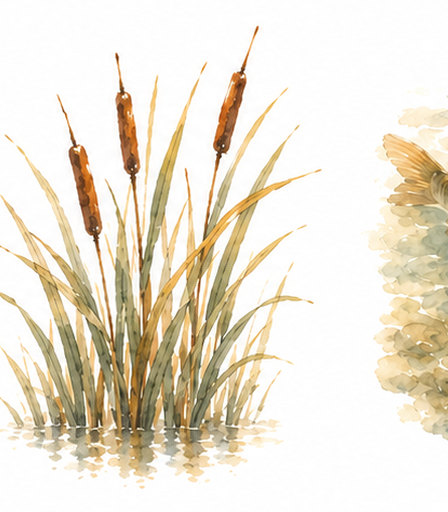
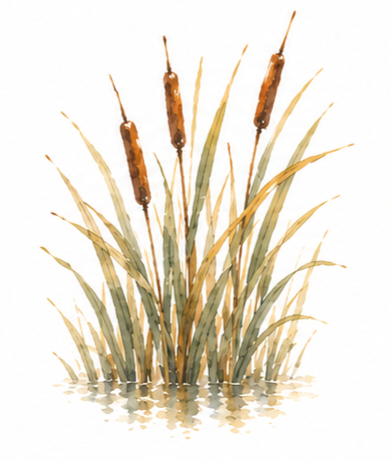
fix: new carp+reeds images, nudge illustrations inward, block bad Amtsblatt entries
- Replace illus-carp.png and illus-reeds.png with better-cropped transparent versions
- Heron: right -20 → 40, reeds: left 20 → 70, carp wrapper: right 0 → 50
- ingest.mjs: EXCLUDED_IDS blocklist prevents known-bad Amtsblatt table rows from re-entering
- amtsblatt.mjs: skip pages with ≥4 Berlin district names (stats tables); require title to have ≥2 words

https://claude.ai/code/session_01NMBMP3pXyQWSLw59ygyhfj

diff --git a/app/layout.tsx b/app/layout.tsx
@@ -64,19 +64,19 @@ export default function RootLayout({
         {/* eslint-disable-next-line @next/next/no-img-element */}
         <img src="/illustrations/illus-heron.png" alt="" aria-hidden="true"
           className="illus-mark hidden md:block"
-          style={{ position: "fixed", right: -20, top: "34vh", width: 300, opacity: 0.28, pointerEvents: "none", zIndex: 5 }}
+          style={{ position: "fixed", right: 40, top: "34vh", width: 300, opacity: 0.28, pointerEvents: "none", zIndex: 5 }}
         />
         {/* Reeds — left edge, lower mid */}
         {/* eslint-disable-next-line @next/next/no-img-element */}
         <img src="/illustrations/illus-reeds.png" alt="" aria-hidden="true"
           className="illus-mark hidden md:block"
-          style={{ position: "fixed", left: 20, top: "58vh", width: 260, opacity: 0.25, pointerEvents: "none", zIndex: 5 }}
+          style={{ position: "fixed", left: 70, top: "58vh", width: 260, opacity: 0.25, pointerEvents: "none", zIndex: 5 }}
         />
         {/* Carp — right edge, lower; gradient wrapper fades left edge of watercolor bg */}
         <div
           className="hidden md:block"
           style={{
-            position: "fixed", right: 0, top: "72vh", width: 280, zIndex: 5, pointerEvents: "none",
+            position: "fixed", right: 50, top: "72vh", width: 280, zIndex: 5, pointerEvents: "none",
             WebkitMaskImage: "linear-gradient(to right, transparent 0%, white 35%, white 100%)",
             maskImage: "linear-gradient(to right, transparent 0%, white 35%, white 100%)",
           }}